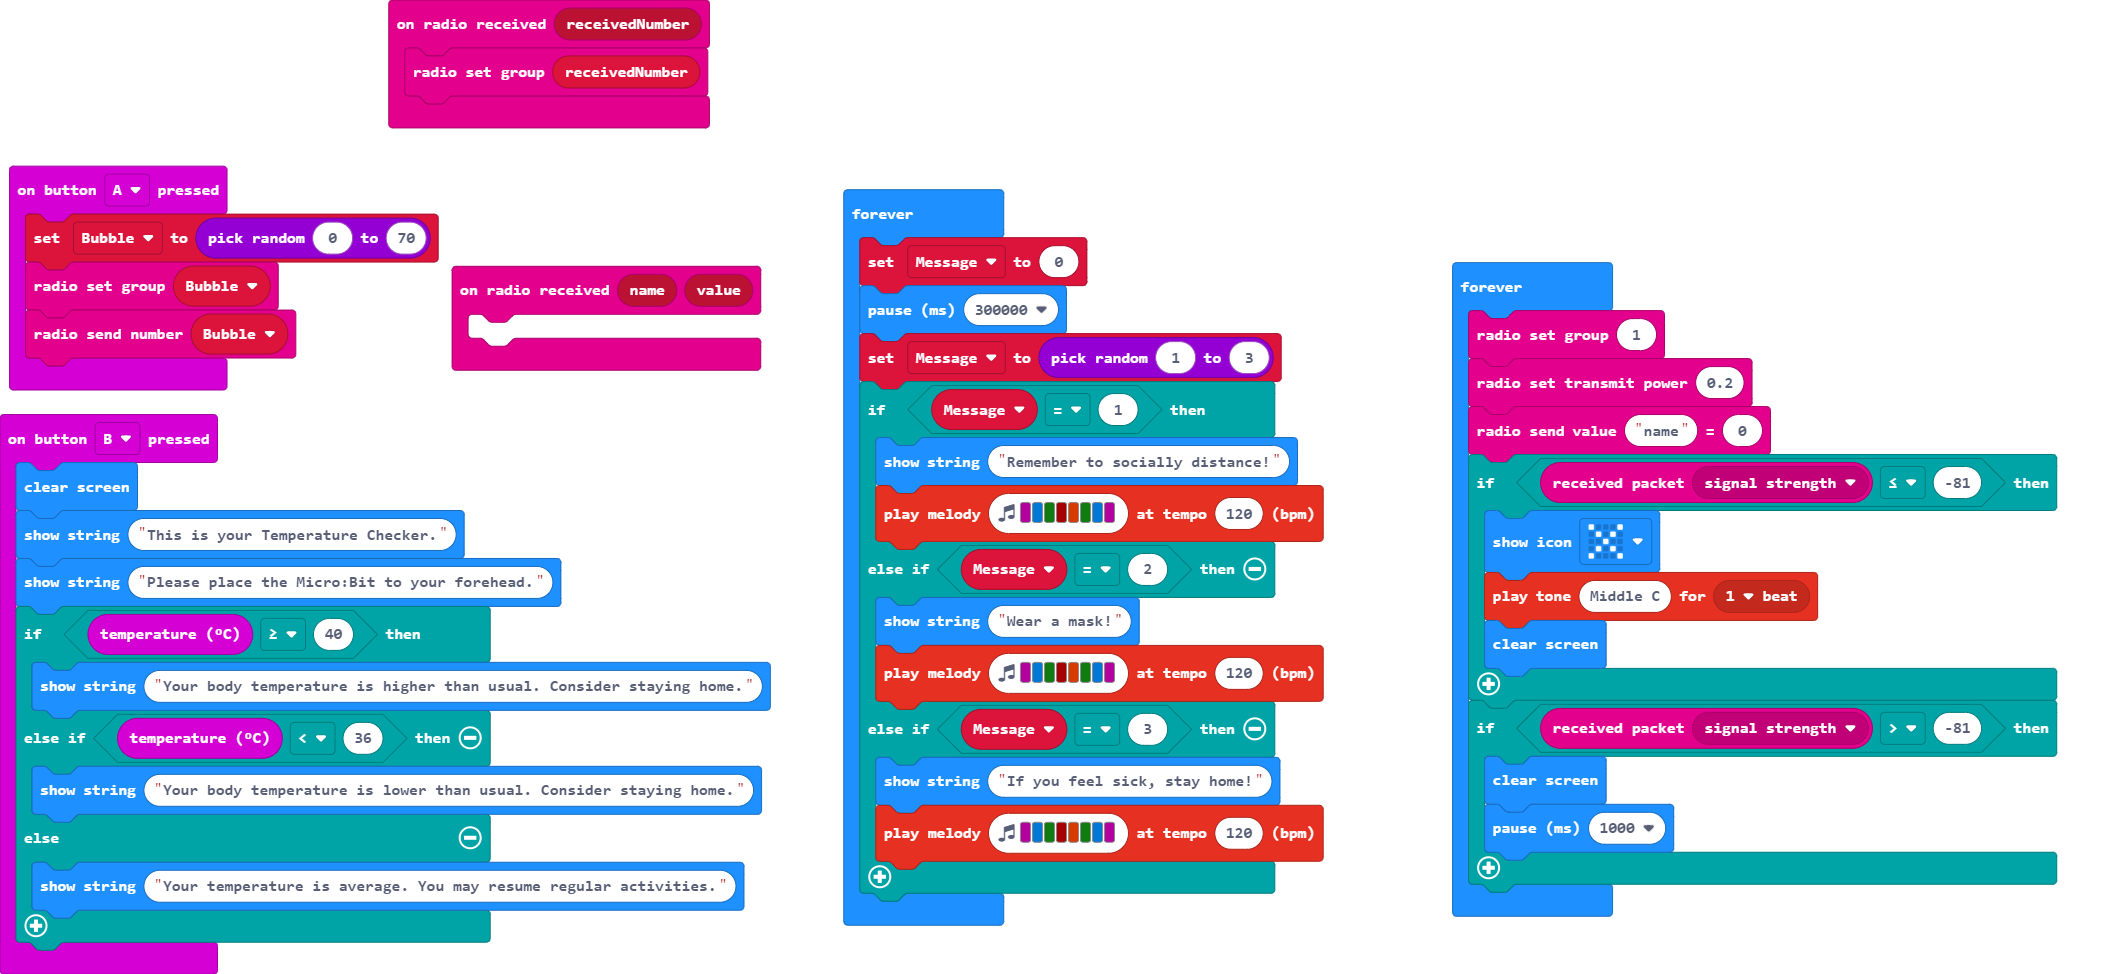
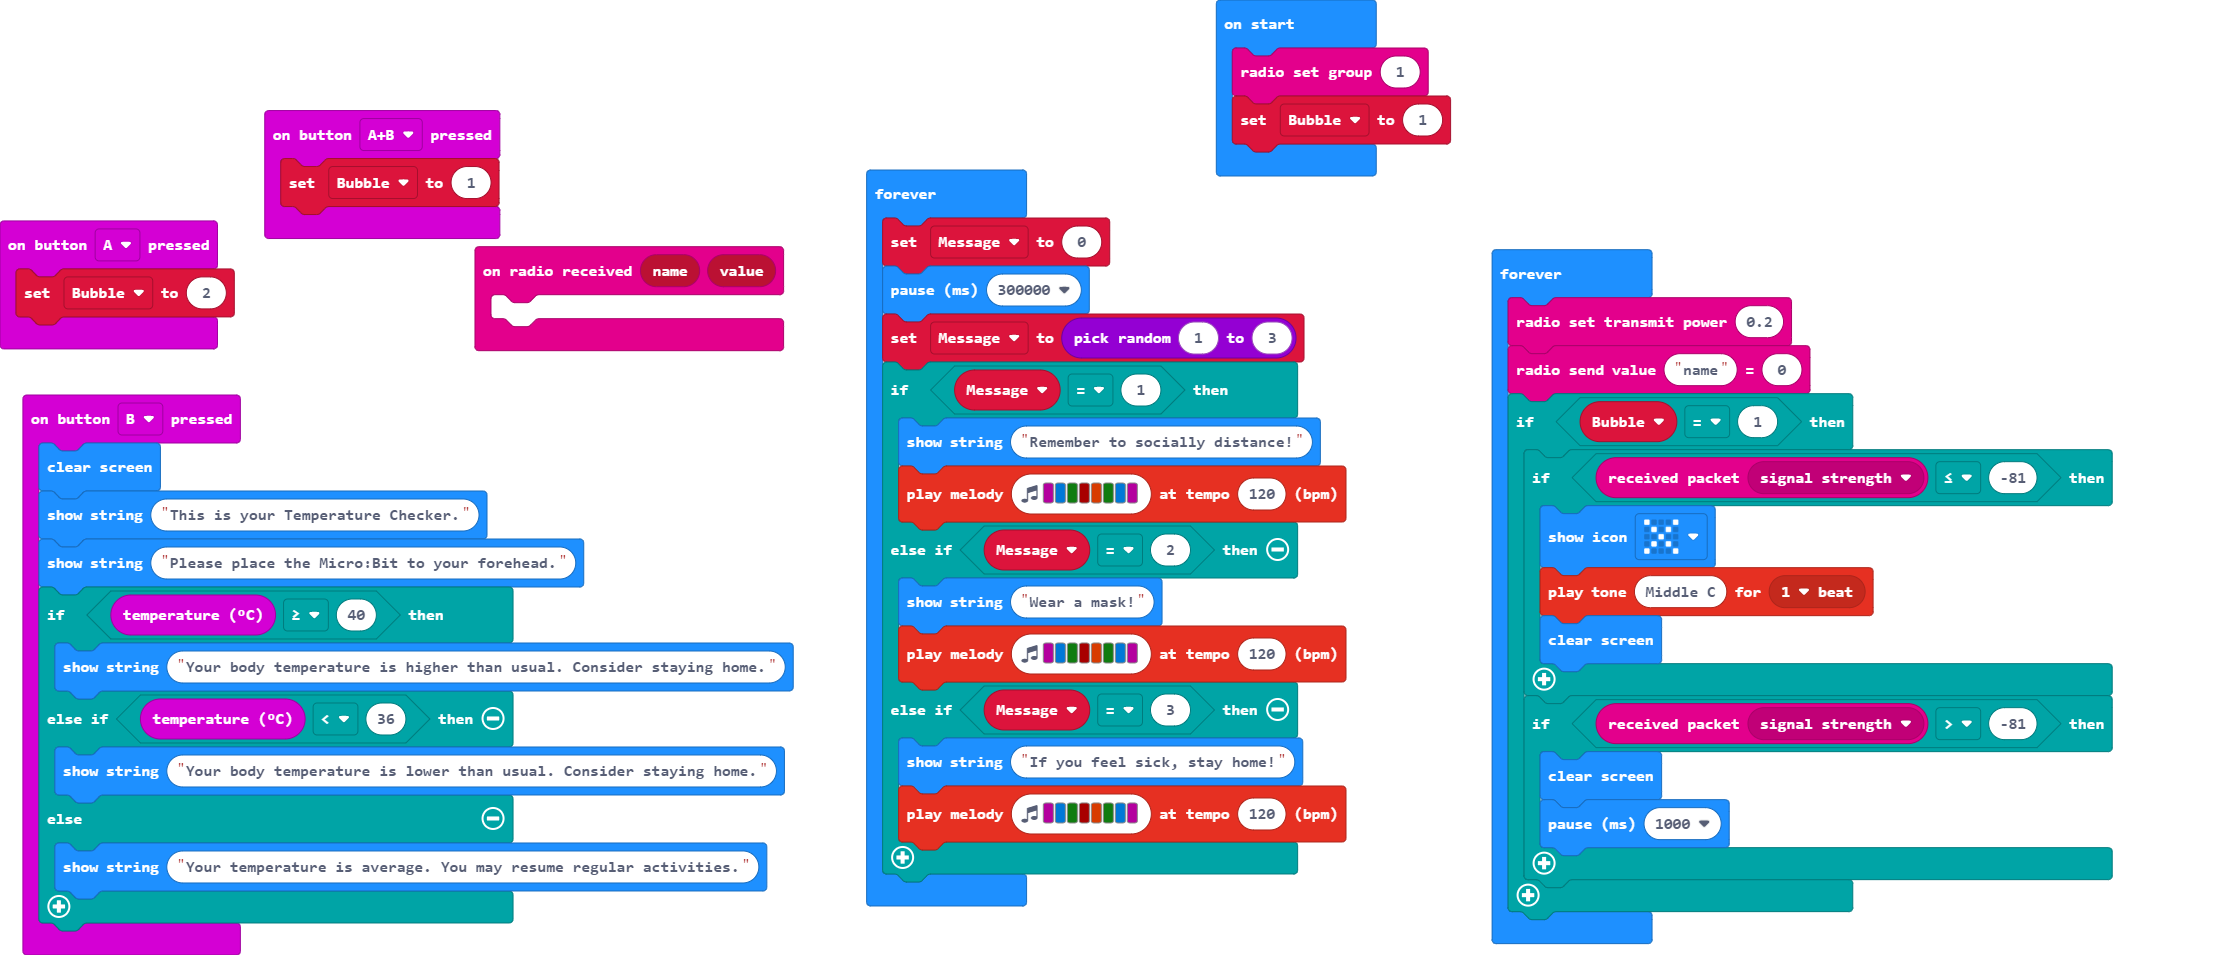
Update main.blocks, main.ts

diff --git a/main.ts b/main.ts
@@ -1,12 +1,8 @@
-let Bubble = 0
-let Message = 0
-radio.onReceivedNumber(function (receivedNumber) {
-    radio.setGroup(receivedNumber)
-})
 input.onButtonPressed(Button.A, function () {
-    Bubble = randint(0, 70)
-    radio.setGroup(Bubble)
-    radio.sendNumber(Bubble)
+    Bubble = 2
+})
+input.onButtonPressed(Button.AB, function () {
+    Bubble = 1
 })
 input.onButtonPressed(Button.B, function () {
     basic.clearScreen()
@@ -23,6 +19,10 @@ input.onButtonPressed(Button.B, function () {
 radio.onReceivedValue(function (name, value) {
 	
 })
+let Message = 0
+let Bubble = 0
+radio.setGroup(1)
+Bubble = 1
 basic.forever(function () {
     Message = 0
     basic.pause(300000)
@@ -39,16 +39,17 @@ basic.forever(function () {
     }
 })
 basic.forever(function () {
-    radio.setGroup(1)
     radio.setTransmitPower(0.2)
     radio.sendValue("name", 0)
-    if (radio.receivedPacket(RadioPacketProperty.SignalStrength) <= -81) {
-        basic.showIcon(IconNames.No)
-        music.playTone(262, music.beat(BeatFraction.Whole))
-        basic.clearScreen()
-    }
-    if (radio.receivedPacket(RadioPacketProperty.SignalStrength) > -81) {
-        basic.clearScreen()
-        basic.pause(1000)
+    if (Bubble == 1) {
+        if (radio.receivedPacket(RadioPacketProperty.SignalStrength) <= -81) {
+            basic.showIcon(IconNames.No)
+            music.playTone(262, music.beat(BeatFraction.Whole))
+            basic.clearScreen()
+        }
+        if (radio.receivedPacket(RadioPacketProperty.SignalStrength) > -81) {
+            basic.clearScreen()
+            basic.pause(1000)
+        }
     }
 })
